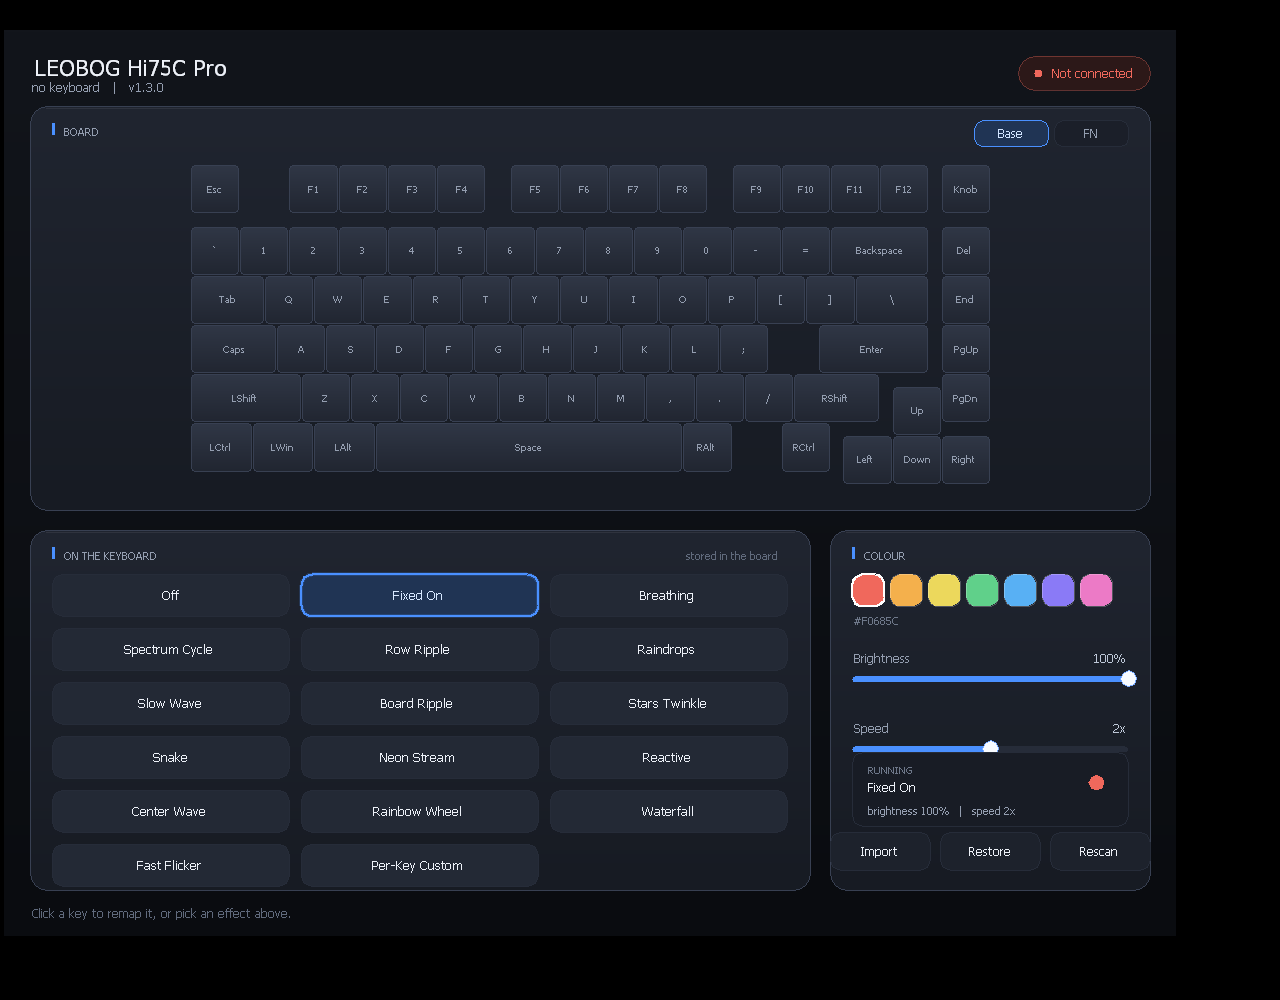
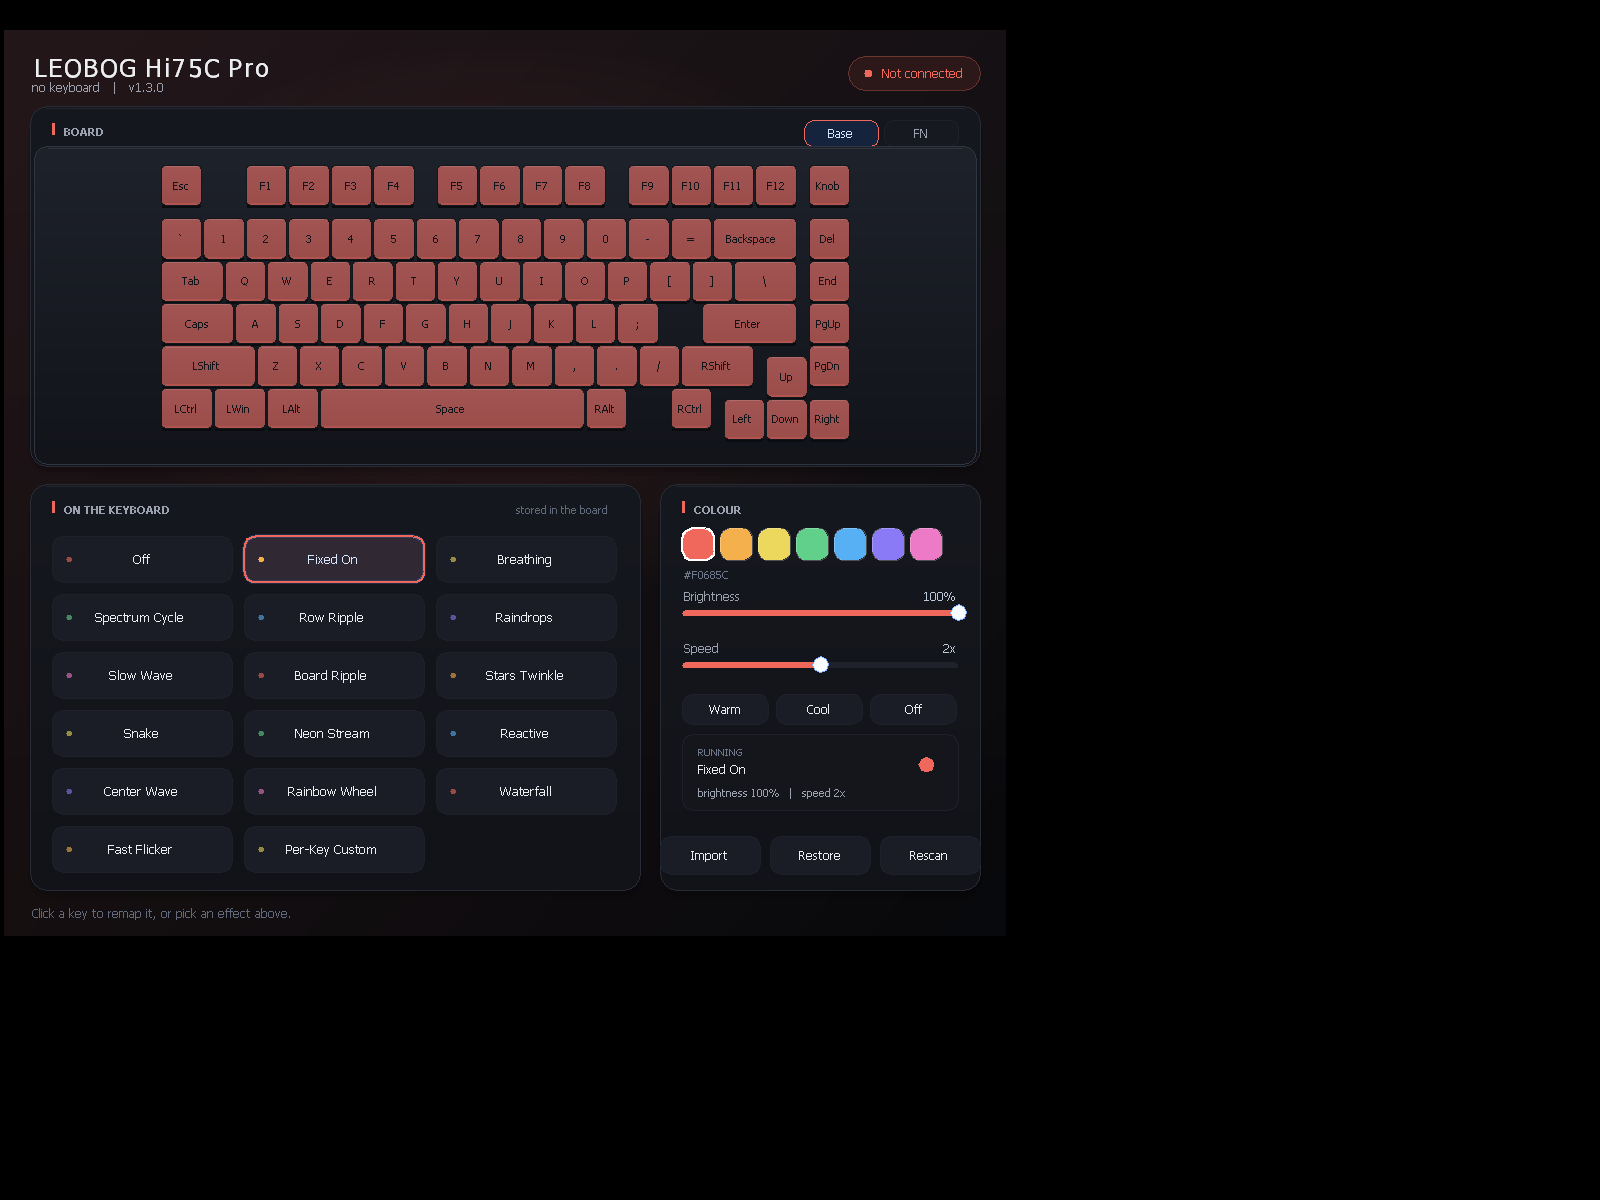
typographic weights, quick presets, reply checksum validation, shortcut guard

diff --git a/ui_native.cpp b/ui_native.cpp
@@ -101,8 +101,9 @@ static void stroke_round(Graphics *g, const RectF &r, float rad, const Color &c,
 }
 
 static void text(Graphics *g, const char *s, const RectF &r, float size,
-                 const Color &c, StringAlignment align, const wchar_t *face = NULL) {
-    Font f(face ? face : g_face, size, FontStyleRegular, UnitPixel);
+                 const Color &c, StringAlignment align, const wchar_t *face = NULL,
+                 bool bold = false) {
+    Font f(face ? face : g_face, size, bold ? FontStyleBold : FontStyleRegular, UnitPixel);
     SolidBrush b(c);
     StringFormat fmt;
     fmt.SetAlignment(align);
@@ -358,7 +359,7 @@ static void paint(HWND hwnd) {
         /* ---------------- header ---------------- */
         {
             RectF title((REAL)pad, 22.0f, 400.0f, 30.0f);
-            text(&g, "LEOBOG Hi75C Pro", title, 22.0f, ink, StringAlignmentNear);
+            text(&g, "LEOBOG Hi75C Pro", title, 25.0f, ink, StringAlignmentNear, NULL, true);
             RectF sub((REAL)pad, 48.0f, 400.0f, 18.0f);
             char subtext[96];
             snprintf(subtext, sizeof(subtext), "%s   |   v%s",
@@ -412,7 +413,7 @@ static void paint(HWND hwnd) {
             {
                 SolidBrush bar(accent);
                 g.FillRectangle(&bar, (REAL)(kb.X + 22), kb.Y + 17, 3.0f, 12.0f);
-                text(&g, "BOARD", RectF(kb.X + 32, kb.Y + 16, 200, 18), 10.5f, dim, StringAlignmentNear);
+                text(&g, "BOARD", RectF(kb.X + 32, kb.Y + 16, 200, 18), 10.5f, dim, StringAlignmentNear, NULL, true);
             }
 
             /* layer switch, top right of the card */
@@ -443,7 +444,7 @@ static void paint(HWND hwnd) {
             {
                 SolidBrush bar(accent);
                 g.FillRectangle(&bar, (REAL)(ec.X + 22), ec.Y + 17, 3.0f, 12.0f);
-                text(&g, "ON THE KEYBOARD", RectF(ec.X + 32, ec.Y + 16, 260, 18), 10.5f, dim, StringAlignmentNear);
+                text(&g, "ON THE KEYBOARD", RectF(ec.X + 32, ec.Y + 16, 260, 18), 10.5f, dim, StringAlignmentNear, NULL, true);
             }
             text(&g, "stored in the board", RectF(ec.X + ec.Width - 180, ec.Y + 16, 158, 18), 10.5f,
                  Color(255, 96, 106, 124), StringAlignmentFar);
@@ -499,7 +500,7 @@ static void paint(HWND hwnd) {
             {
                 SolidBrush bar(accent);
                 g.FillRectangle(&bar, (REAL)(cc.X + 22), cc.Y + 17, 3.0f, 12.0f);
-                text(&g, "COLOUR", RectF(cc.X + 32, cc.Y + 16, 160, 18), 10.5f, dim, StringAlignmentNear);
+                text(&g, "COLOUR", RectF(cc.X + 32, cc.Y + 16, 160, 18), 10.5f, dim, StringAlignmentNear, NULL, true);
             }
 
             const Color *sw = SWATCH;
@@ -557,9 +558,24 @@ static void paint(HWND hwnd) {
                 add_hot(bx - 8, by - 14, bw + 16, 30, 301, "speed");
             }
 
+            /* quick presets: a warm look, a cool look, or dark */
+            {
+                int py = (int)cc.Y + 210;
+                const char *names[3] = {"Warm", "Cool", "Off"};
+                int ids[3] = {600, 601, 602};
+                int j, bw3 = (rightW - 44 - 16) / 3;
+                for (j = 0; j < 3; j++) {
+                    RectF b((REAL)(cc.X + 22 + j * (bw3 + 8)), (REAL)py, (REAL)bw3, 30.0f);
+                    fill_round(&g, b, 9.0f, g_hover == ids[j] ? Color(255, 34, 38, 48) : Color(255, 26, 29, 37));
+                    stroke_round(&g, b, 9.0f, lineSoft, 1.0f);
+                    text(&g, names[j], b, 11.5f, ink, StringAlignmentCenter);
+                    add_hot((int)b.X, (int)b.Y, (int)b.Width, (int)b.Height, ids[j], names[j]);
+                }
+            }
+
             /* live summary */
             {
-                int sy = (int)cc.Y + 206;
+                int sy = (int)cc.Y + 250;
                 RectF box((REAL)(cc.X + 22), (REAL)sy, (REAL)(rightW - 44), 76.0f);
                 fill_round(&g, box, 12.0f, Color(255, 20, 22, 28));
                 stroke_round(&g, box, 12.0f, lineSoft, 1.0f);
@@ -702,6 +718,9 @@ static LRESULT CALLBACK proc(HWND h, UINT m, WPARAM w, LPARAM l) {
                     app_update_install();          /* worker downloads; UI stays live */
                     InvalidateRect(h, NULL, FALSE);
                 }
+                else if (id == 600) { app_set_colour(0); app_set_effect(1); }
+                else if (id == 601) { app_set_colour(4); app_set_effect(1); }
+                else if (id == 602) { app_set_effect(0); }
                 else if (id == 500) { app_set_layer(0); g_sel = -1; InvalidateRect(h, NULL, FALSE); }
                 else if (id == 501) { app_set_layer(1); g_sel = -1; InvalidateRect(h, NULL, FALSE); }
                 else if (id >= 1000) {

diff --git a/tests/proto_test.c b/tests/proto_test.c
@@ -21,6 +21,7 @@ typedef struct {
     int written[256], written_n;
     unsigned char blob[KEYMAP_LEN];
     int blob_len;
+    int corrupt;      /* emit replies with a broken checksum */
 } Fake;
 
 static int fk_send(void *ctx, const unsigned char *f, int len) {
@@ -47,6 +48,7 @@ static int fk_send(void *ctx, const unsigned char *f, int len) {
             int at = i * 14, n = size - at;
             if (n > 14) n = 14;
             p_frame(d->q[d->tail++], f[1], 0, src + at, n, i, count);
+            if (d->corrupt) d->q[d->tail - 1][19] ^= 0xff;
         }
     }
     return 1;
@@ -59,6 +61,11 @@ static int fk_recv(void *ctx, unsigned char *buf, int len, int timeout_ms) {
     return RPT_LEN;
 }
 static Link link_for(Fake *d) { Link l; l.ctx = d; l.send = fk_send; l.recv = fk_recv; return l; }
+
+static int hp_read_checksum_case(Link *l) {
+    unsigned char buf[CFG_LEN];
+    return p_read(l, 0x44, 0, buf, CFG_LEN);
+}
 
 int main(void) {
     Fake d;
@@ -150,6 +157,18 @@ int main(void) {
             for (i = 0; i < KEYMAP_LEN; i += 4) if (map[i+3]) nonzero++;
             ok(nonzero >= 78, "the keymap is populated, not blank");
         }
+    }
+
+    /* a reply whose checksum is wrong must not be trusted */
+    {
+        Fake fc;
+        Link lc;
+        unsigned char bad[CFG_LEN];
+        memset(&fc, 0, sizeof(fc));
+        fc.cfg[126] = 0x5a; fc.cfg[127] = 0xa5;
+        fc.corrupt = 1;
+        lc = link_for(&fc);
+        ok(p_read(&lc, 0x44, 0, bad, CFG_LEN) == 0, "rejects replies with a bad checksum");
     }
 
     printf("\n%d checks, %d failures\n", checks, fails);

diff --git a/proto.c b/proto.c
@@ -29,13 +29,20 @@ void p_frame(unsigned char *f, int cmd, int sub, const unsigned char *payload,
     f[RPT_LEN - 1] = (unsigned char)(sum & 0xff);
 }
 
+static int frame_ok(const unsigned char *buf) {
+    int i, sum = 0;
+    if (buf[0] != RPT) return 0;
+    for (i = 0; i < RPT_LEN - 1; i++) sum += buf[i];
+    return buf[RPT_LEN - 1] == (unsigned char)(sum & 0xff);
+}
+
 static int await_echo(Link *l, int cmd, int index, int timeout_ms) {
     unsigned char buf[64];
     int waited = 0;
     while (waited < timeout_ms) {
         int n = l->recv(l->ctx, buf, (int)sizeof(buf), 10);
         waited += 10;
-        if (n < RPT_LEN || buf[0] != RPT) continue;
+        if (n < RPT_LEN || !frame_ok(buf)) continue;
         if ((buf[1] & 0x3f) != (cmd & 0x3f)) continue;
         if (buf[3] != (unsigned char)index) continue;
         return 1;
@@ -78,7 +85,7 @@ int p_read(Link *l, int cmd, int sub, unsigned char *out, int want) {
         int n = l->recv(l->ctx, buf, (int)sizeof(buf), 10);
         waited += 10;
         if (count > 0 && packets >= count) break;
-        if (n < RPT_LEN || buf[0] != RPT) continue;
+        if (n < RPT_LEN || !frame_ok(buf)) continue;     /* checksum before trust */
         if ((buf[1] & 0x3f) != (cmd & 0x3f) || (buf[2] & 0x80)) continue;
         {
             int len = buf[4] & 0x0f, idx = buf[3], at = idx * 14;

diff --git a/app.c b/app.c
@@ -288,6 +288,7 @@ static void register_shortcut(void) {
     GetModuleFileNameW(NULL, exe, MAX_PATH);
     if (!SUCCEEDED(SHGetFolderPathW(NULL, CSIDL_PROGRAMS, NULL, 0, prog))) return;
     _snwprintf(link, MAX_PATH, L"%s\\Hi75C Pro.lnk", prog);
+    if (GetFileAttributesW(link) != INVALID_FILE_ATTRIBUTES) return;   /* already there */
 
     if (SUCCEEDED(CoCreateInstance(&CLSID_ShellLink, NULL, CLSCTX_INPROC_SERVER,
                                    &IID_IShellLinkW, (void **)&lnk))) {
